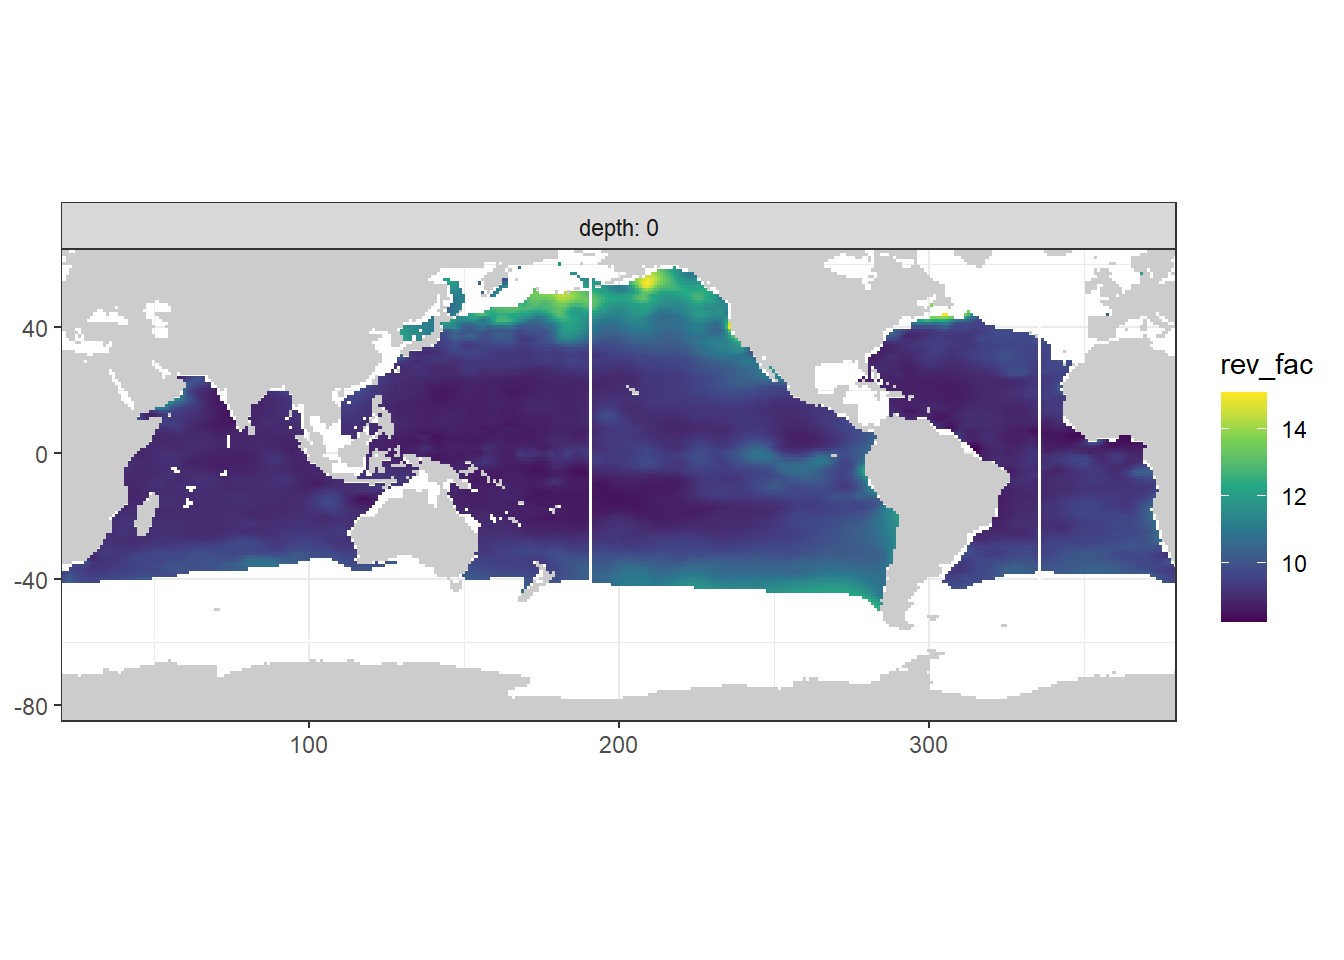
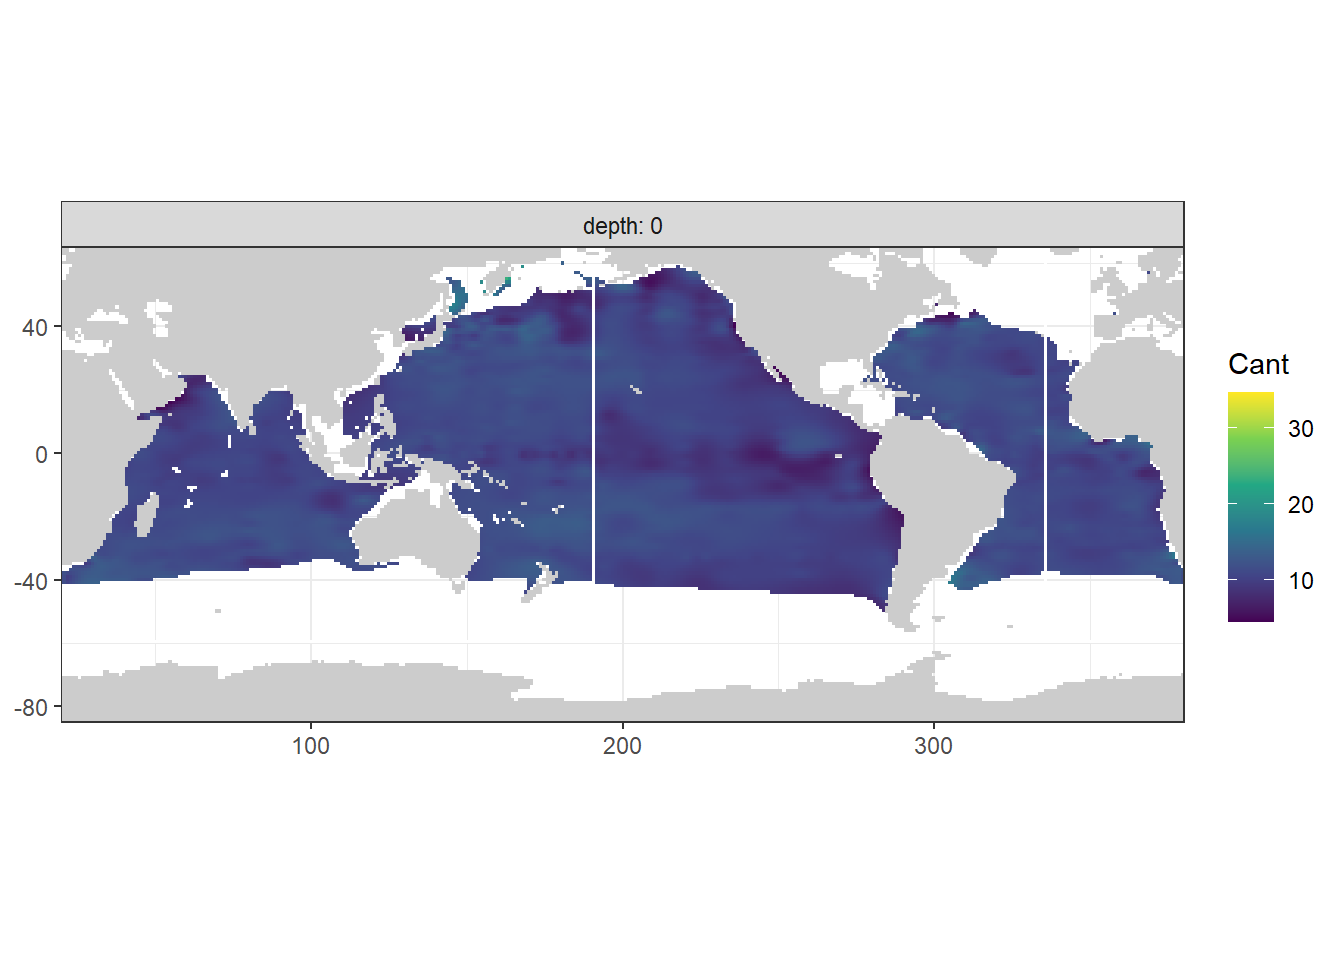
Build site.

diff --git a/docs/mapping_cant_calculation.html b/docs/mapping_cant_calculation.html
@@ -618,16 +618,16 @@ This reproducible <a href="http://rmarkdown.rstudio.com">R Markdown</a> analysis
 <div class="panel panel-default">
 <div class="panel-heading">
 <p class="panel-title">
-<a data-toggle="collapse" data-parent="#workflowr-checks" href="#strongRepositoryversionstrongahrefhttpsgithubcomjensdanielmuellerCanteMLRtree1835acad887a61d6b3aa81770770e4499d2524d8targetblank1835acaa"> <span class="glyphicon glyphicon-ok text-success" aria-hidden="true"></span> <strong>Repository version:</strong> <a href="https://github.com/jens-daniel-mueller/Cant_eMLR/tree/1835acad887a61d6b3aa81770770e4499d2524d8" target="_blank">1835aca</a> </a>
+<a data-toggle="collapse" data-parent="#workflowr-checks" href="#strongRepositoryversionstrongahrefhttpsgithubcomjensdanielmuellerCanteMLRtree08c486f75be6f0059e2fb1b3bb1f8169c569a7d8targetblank08c486fa"> <span class="glyphicon glyphicon-ok text-success" aria-hidden="true"></span> <strong>Repository version:</strong> <a href="https://github.com/jens-daniel-mueller/Cant_eMLR/tree/08c486f75be6f0059e2fb1b3bb1f8169c569a7d8" target="_blank">08c486f</a> </a>
 </p>
 </div>
[2 lines of base64/hex data omitted]
 <div class="panel-body">
 <p>
 Great! You are using Git for version control. Tracking code development and connecting the code version to the results is critical for reproducibility.
 </p>
 <p>
-The results in this page were generated with repository version <a href="https://github.com/jens-daniel-mueller/Cant_eMLR/tree/1835acad887a61d6b3aa81770770e4499d2524d8" target="_blank">1835aca</a>. See the <em>Past versions</em> tab to see a history of the changes made to the R Markdown and HTML files.
+The results in this page were generated with repository version <a href="https://github.com/jens-daniel-mueller/Cant_eMLR/tree/08c486f75be6f0059e2fb1b3bb1f8169c569a7d8" target="_blank">08c486f</a>. See the <em>Past versions</em> tab to see a history of the changes made to the R Markdown and HTML files.
 </p>
 <p>
 Note that you need to be careful to ensure that all relevant files for the analysis have been committed to Git prior to generating the results (you can use <code>wflow_publish</code> or <code>wflow_git_commit</code>). workflowr only checks the R Markdown file, but you know if there are other scripts or data files that it depends on. Below is the status of the Git repository when the results were generated:
@@ -687,6 +687,40 @@ Message
 </tr>
 </thead>
 <tbody>
+<tr>
+<td>
+Rmd
+</td>
+<td>
+<a href="https://github.com/jens-daniel-mueller/Cant_eMLR/blob/08c486f75be6f0059e2fb1b3bb1f8169c569a7d8/analysis/mapping_cant_calculation.Rmd" target="_blank">08c486f</a>
+</td>
+<td>
+jens-daniel-mueller
+</td>
+<td>
+2020-09-16
+</td>
+<td>
+joined surface and deep Cant estimates
+</td>
+</tr>
+<tr>
+<td>
+html
+</td>
+<td>
+<a href="https://rawcdn.githack.com/jens-daniel-mueller/Cant_eMLR/ebadd9628c6b77e626b77d5103055666dc60d54d/docs/mapping_cant_calculation.html" target="_blank">ebadd96</a>
+</td>
+<td>
+jens-daniel-mueller
+</td>
+<td>
+2020-09-16
+</td>
+<td>
+Build site.
+</td>
+</tr>
 <tr>
 <td>
 Rmd
@@ -1386,34 +1420,35 @@ map_climatology(predictors_surface, &quot;pCO2&quot;)</code></pre>
                      P = depth/10,
                      k1k2 = &quot;l&quot;)$BetaD)
 
-map_climatology(predictors_surface, &quot;rev_fac&quot;)</code></pre>
-<p><img src="figure/mapping_cant_calculation.Rmd/Cant_surface_calculation-2.png" width="672" style="display: block; margin: auto;" /></p>
-<pre class="r"><code>Cant_surface &lt;- full_join(predictors_surface, co2_atm_tref,
+# map_climatology(predictors_surface, &quot;rev_fac&quot;)
+
+Cant_surface &lt;- full_join(predictors_surface, co2_atm_tref,
                           by = character())
 
 Cant_surface &lt;- Cant_surface %&gt;% 
   mutate(Cant = (1 / rev_fac) * (TCO2 / pCO2) * d_pCO2_tref)
 
 map_climatology(Cant_surface, &quot;Cant&quot;)</code></pre>
-<p><img src="figure/mapping_cant_calculation.Rmd/Cant_surface_calculation-3.png" width="672" style="display: block; margin: auto;" /></p>
-<pre class="r"><code>left_join(section_global_coordinates, Cant_surface) %&gt;%
-  ggplot(aes(dist, depth, z = Cant)) +
-    geom_contour_filled() +
-    geom_vline(data = section_global_coordinates %&gt;% filter(lat == 0.5),
-               aes(xintercept = dist), col = &quot;white&quot;) +
-    scale_fill_viridis_d(name = &quot;Cant&quot;) +
-    coord_cartesian(expand = 0) +
-    scale_y_reverse() +
-    theme(axis.title.x = element_blank(),
-          axis.text.x = element_blank(),
-          axis.ticks.x = element_blank(),
-          legend.position = &quot;top&quot;) +
-    labs(y = &quot;Depth (m)&quot;)</code></pre>
-<p><img src="figure/mapping_cant_calculation.Rmd/Cant_surface_calculation-4.png" width="672" style="display: block; margin: auto;" /></p>
+<p><img src="figure/mapping_cant_calculation.Rmd/Cant_surface_calculation-2.png" width="672" style="display: block; margin: auto;" /></p>
+<pre class="r"><code># left_join(section_global_coordinates, Cant_surface) %&gt;%
+#   ggplot(aes(dist, depth, z = Cant)) +
+#     geom_contour_filled() +
+#     geom_vline(data = section_global_coordinates %&gt;% filter(lat == 0.5),
+#                aes(xintercept = dist), col = &quot;white&quot;) +
+#     scale_fill_viridis_d(name = &quot;Cant&quot;) +
+#     coord_cartesian(expand = 0) +
+#     scale_y_reverse() +
+#     theme(axis.title.x = element_blank(),
+#           axis.text.x = element_blank(),
+#           axis.ticks.x = element_blank(),
+#           legend.position = &quot;top&quot;) +
+#     labs(y = &quot;Depth (m)&quot;)</code></pre>
 </div>
 <div id="mean-cant-fields" class="section level2">
 <h2><span class="header-section-number">5.4</span> Mean Cant fields</h2>
 <p>Mean and sd are calculated for Cant in each grid cell (XYZ), basin and era combination. Calculations are performed for all Cant values vs positive values only. This averaging step summarizes the information derived from ten best fitting MLRs.</p>
+<div id="deep-water-averaging" class="section level3">
+<h3><span class="header-section-number">5.4.1</span> Deep water averaging</h3>
 <pre class="r"><code>Cant_predictor_average &lt;- Cant %&gt;%
   mutate(Cant_pos = if_else(Cant &lt; 0, 0, Cant)) %&gt;%
   group_by(lon, lat, depth, eras, basin) %&gt;%
@@ -1454,9 +1489,26 @@ Cant_average &lt;- Cant %&gt;%
             Cant_pos_sd = sd(Cant_pos, na.rm = TRUE),
             gamma_mean = mean(gamma, na.rm = TRUE),
             gamma_sd = sd(gamma, na.rm = TRUE)) %&gt;%
+  ungroup()</code></pre>
+</div>
+<div id="join-surface-and-deep-water" class="section level3">
+<h3><span class="header-section-number">5.4.2</span> Join surface and deep water</h3>
+<pre class="r"><code>Cant_surface &lt;- Cant_surface %&gt;%
+  mutate(Cant_pos = if_else(Cant &lt; 0, 0, Cant)) %&gt;%
+  group_by(lon, lat, depth, eras, basin) %&gt;%
+  summarise(Cant_mean = mean(Cant, na.rm = TRUE),
+            Cant_sd = sd(Cant, na.rm = TRUE),
+            Cant_pos_mean = mean(Cant_pos, na.rm = TRUE),
+            Cant_pos_sd = sd(Cant_pos, na.rm = TRUE),
+            gamma_mean = mean(gamma, na.rm = TRUE),
+            gamma_sd = sd(gamma, na.rm = TRUE)) %&gt;%
   ungroup()
 
-Cant_average_Atl &lt;- Cant_average %&gt;% 
+Cant_average &lt;- full_join(Cant_average, Cant_surface)</code></pre>
+</div>
+<div id="gamma-slab-zonal-mean" class="section level3">
+<h3><span class="header-section-number">5.4.3</span> Gamma slab zonal mean</h3>
+<pre class="r"><code>Cant_average_Atl &lt;- Cant_average %&gt;% 
   filter(basin == &quot;Atlantic&quot;) %&gt;% 
   mutate(gamma_slab = cut(gamma_mean, parameters$slabs_Atl))
 
@@ -1467,6 +1519,7 @@ Cant_average_Ind_Pac &lt;- Cant_average %&gt;%
 Cant_average &lt;- bind_rows(Cant_average_Atl, Cant_average_Ind_Pac)
 
 rm(Cant_average_Atl, Cant_average_Ind_Pac)</code></pre>
+</div>
 </div>
 <div id="mean-cant-sections" class="section level2">
 <h2><span class="header-section-number">5.5</span> Mean Cant sections</h2>
@@ -1668,8 +1721,8 @@ loaded via a namespace (and not attached):
 [45] scales_1.1.1      cli_2.0.2         stringi_1.4.6     farver_2.0.3     
 [49] fs_1.4.2          promises_1.1.1    xml2_1.3.2        ellipsis_0.3.1   
 [53] generics_0.0.2    vctrs_0.3.2       tools_4.0.2       glue_1.4.1       
-[57] hms_0.5.3         yaml_2.2.1        colorspace_1.4-1  isoband_0.2.2    
-[61] rvest_0.3.6       knitr_1.29        haven_2.3.1      </code></pre>
+[57] hms_0.5.3         yaml_2.2.1        colorspace_1.4-1  rvest_0.3.6      
+[61] knitr_1.29        haven_2.3.1      </code></pre>
 </div>
 </div>
 
